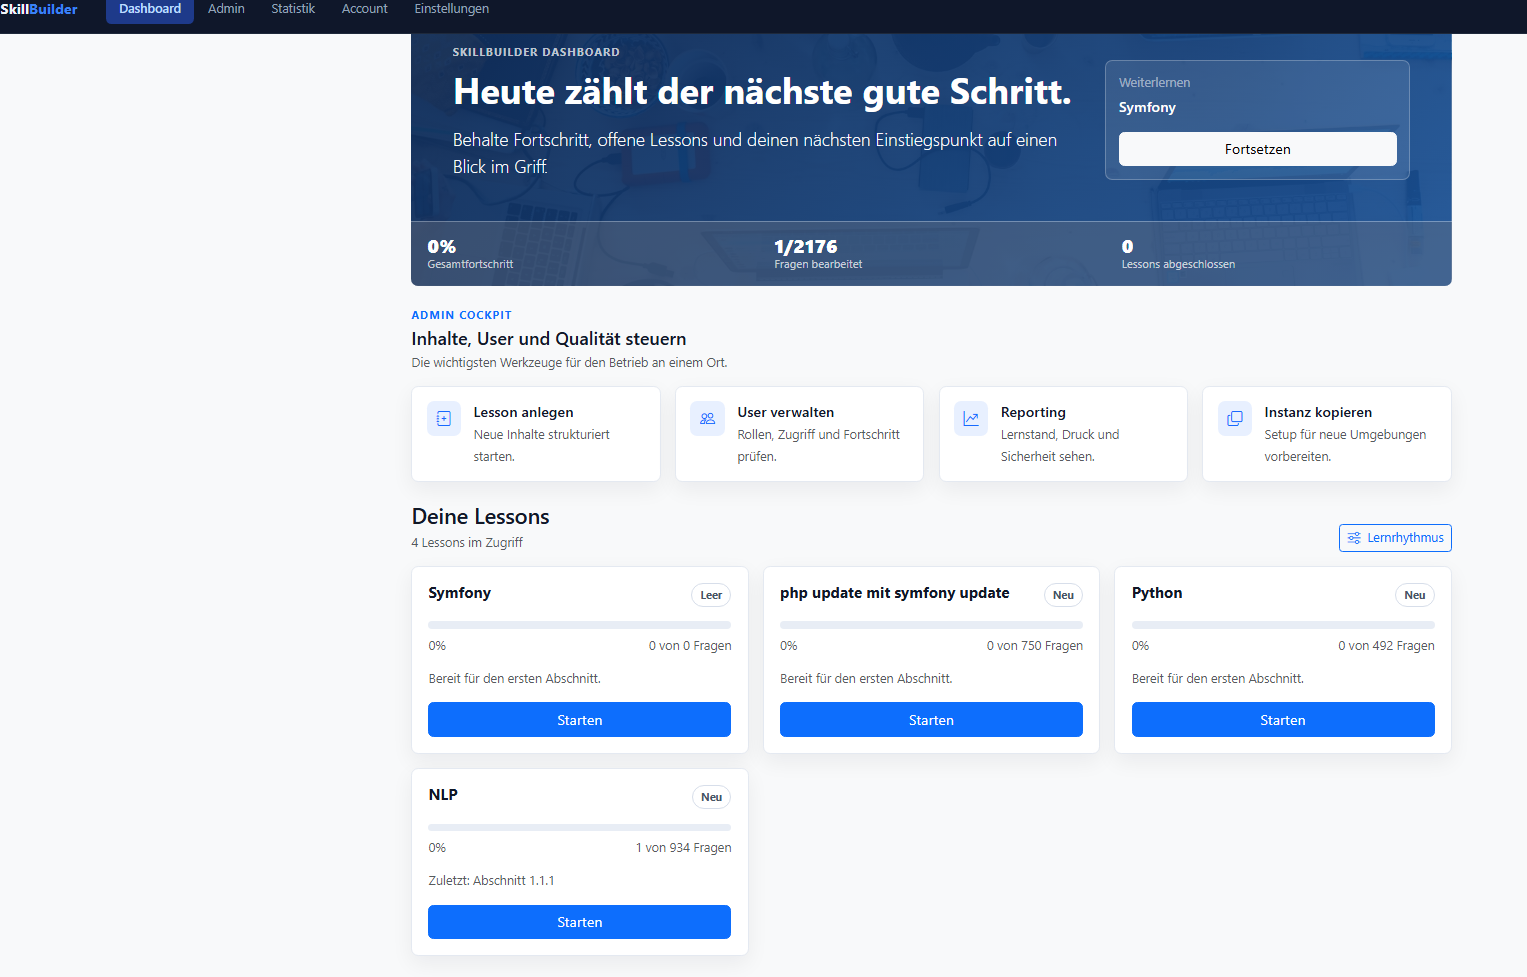
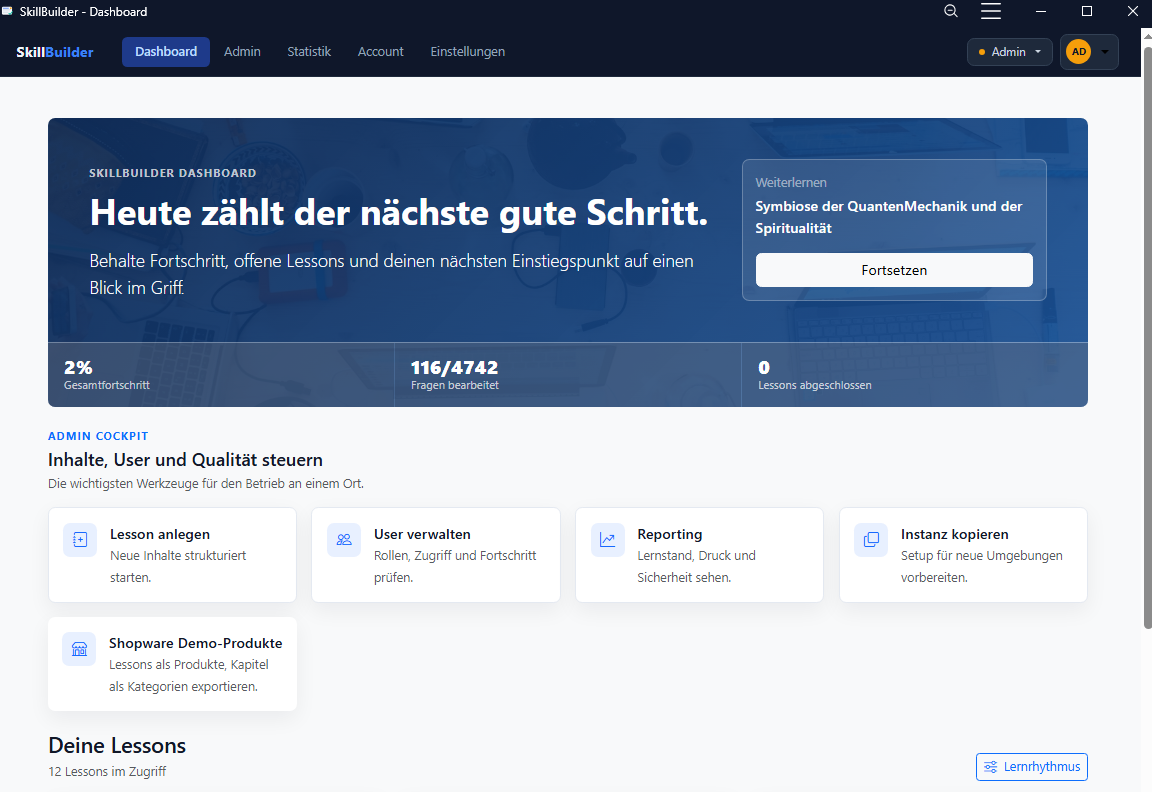
Replace obsolete admin cockpit screenshot

diff --git a/README.md b/README.md
@@ -81,9 +81,7 @@ Representative code examples:
 
 ![Learning settings](screenshots/05-learning-settings.png)
 
-![Admin cockpit](screenshots/06-admin-cockpit.png)
-
-![Admin Shopware import](screenshots/07-admin-shopware-import.png)
+![Admin cockpit with Shopware import](screenshots/06-admin-cockpit.png)
 
 ## What Is Not Included
 